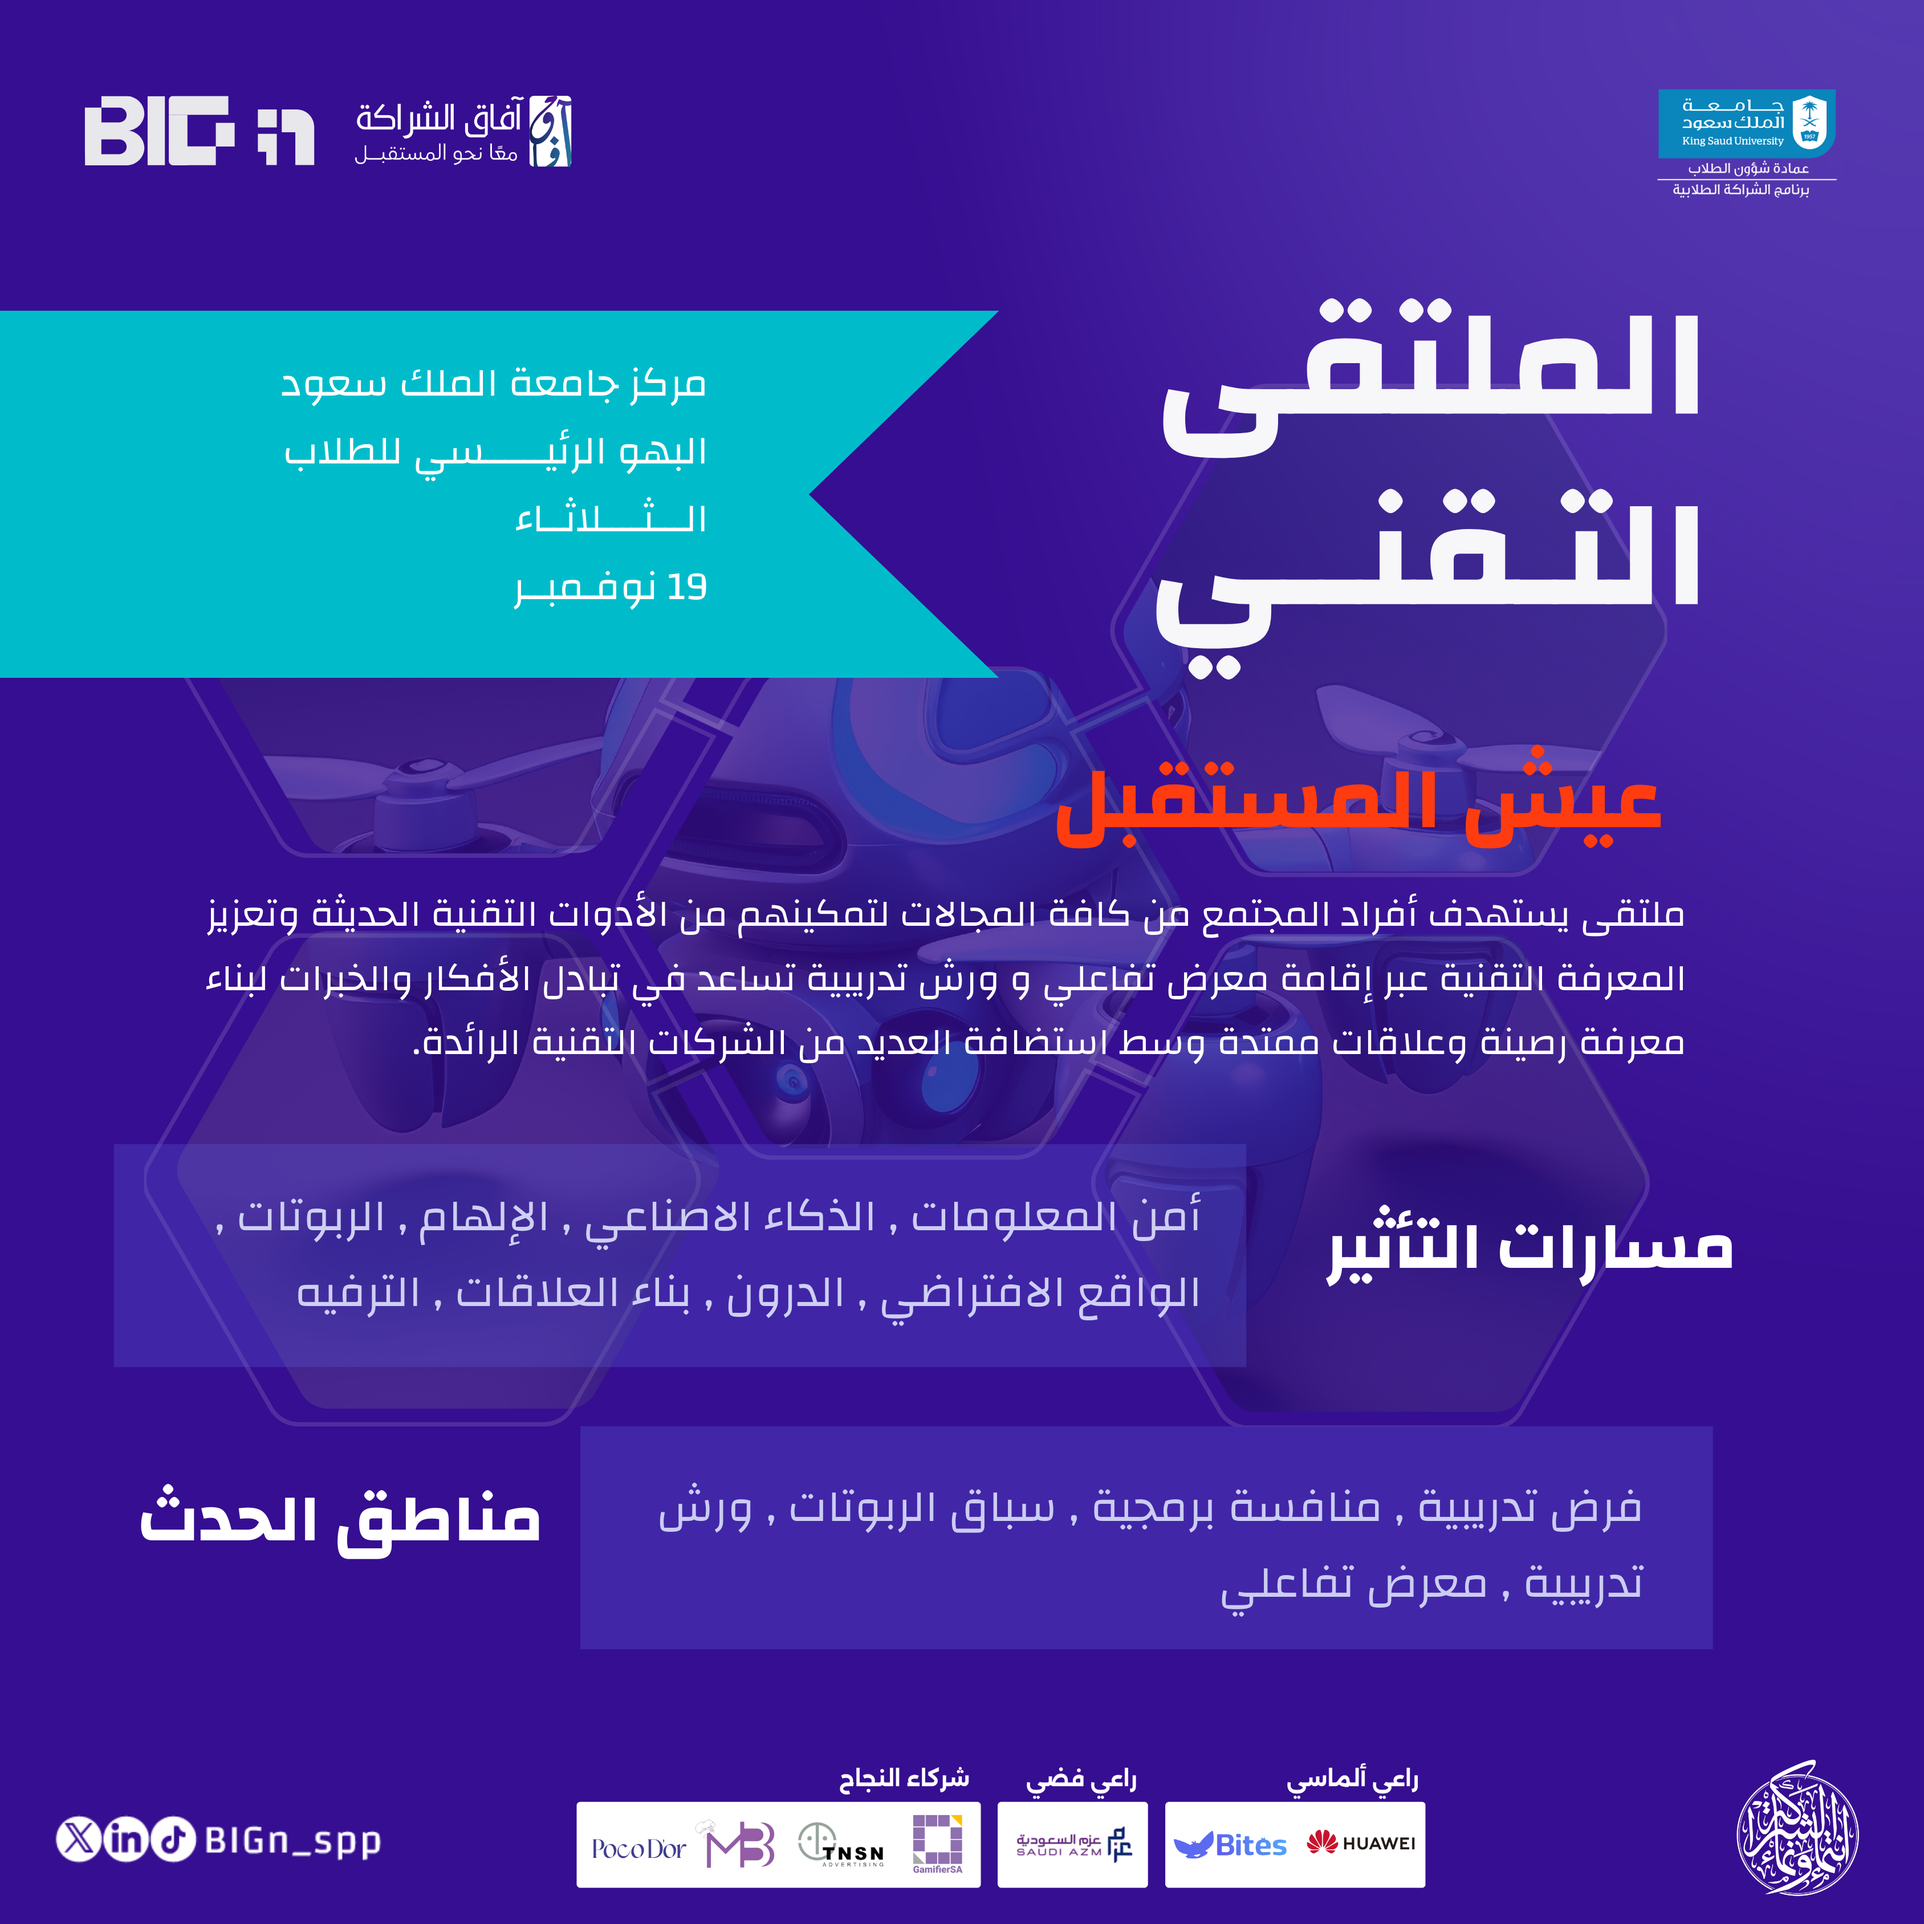
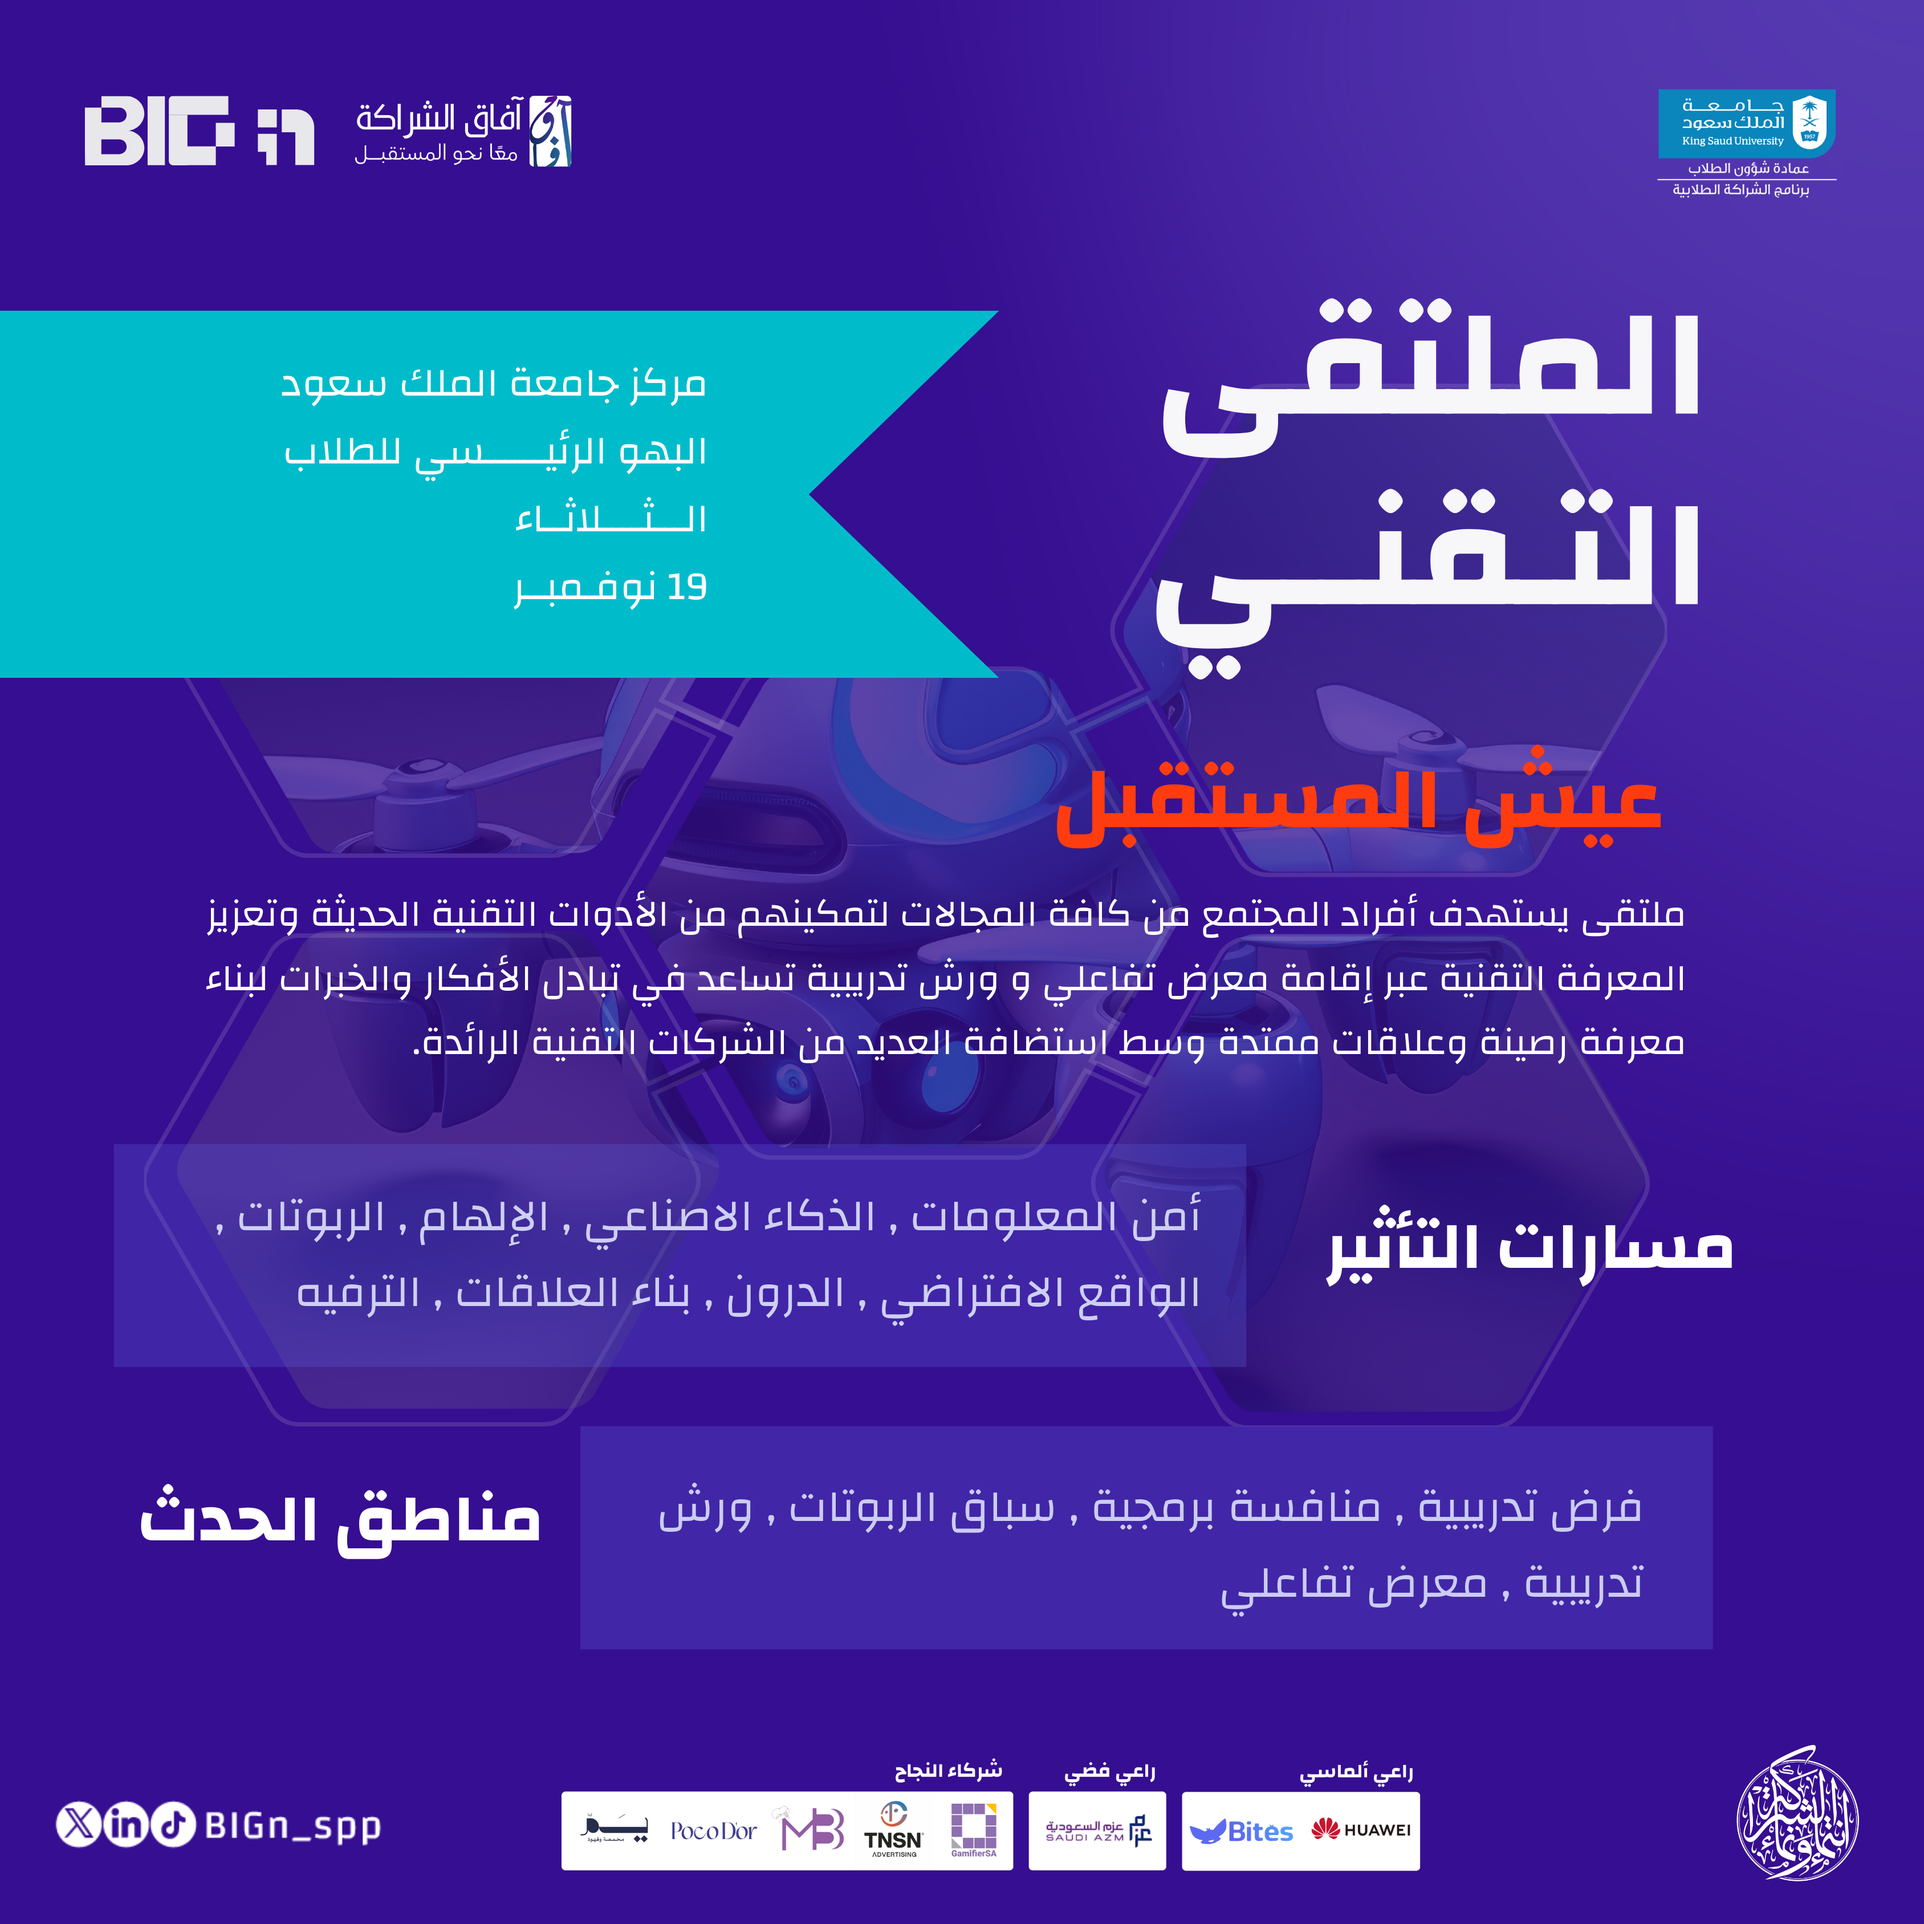
Adding new partner + modifying on the Multaqa tickets

Changed region(s): [[0.28, 0.9022, 0.7467, 0.9956], [0.9022, 0.9022, 0.9644, 0.9956], [0.0311, 0.9333, 0.2178, 0.9644]]

diff --git a/BIGn-frontend/BIGn/src/components/MultaqaCards.jsx b/BIGn-frontend/BIGn/src/components/MultaqaCards.jsx
@@ -6,13 +6,16 @@ const MultaqaCards = () => {
 
   return (
     <section className="p-4 px-10 py-44">
-      <div className="mx-auto max-w-6xl">
+      <div className="mx-auto ">
         <p className="mb-16 text-3xl sm:text-5xl text-center font-semibold">
           احجز تذكرتك واستمتع بالمعرض التقني!
         </p>
-        <div className="grid grid-cols-1 sm:grid-cols-2 gap-20">
+        <div className="flex flex-wrap justify-center gap-20">
           {displayItems.map((item) => (
-            <div key={item.id}>
+            <div
+              key={item.id}
+              className="flex flex-col items-center w-full max-w-xl"
+            >
               <p className="mb-3 mt-8 sm:text-3xl text-2xl text-center font-bold">
                 {item.title}
               </p>
@@ -70,14 +73,20 @@ export default MultaqaCards;
 const items = [
   {
     id: 1,
-    url: "/images/Multaqa-ticket.png",
-    title: "تذكرة حضور الملتقى",
-    buttonLink: "https://forms.gle/link1",
+    url: "/images/multaqa-ticket.png",
+    title: "تذكرة حضور الملتقى يوم الثلاثاء",
+    buttonLink: "https://forms.gle/TDt9GhxdVHwdEA7W7",
   },
   {
     id: 2,
     url: "/images/workshop1-ticket.png",
     title: "تذكرة حضور ورشة العمل",
-    buttonLink: "https://forms.gle/link2",
+    buttonLink: "https://forms.gle/i9Xap2tHKECx7f8h8",
+  },
+  {
+    id: 3,
+    url: "/images/bigO-ticket.png",
+    title: "سجل في مسابقة Big O's المصغرة",
+    buttonLink: "https://forms.gle/wh3AfedTqje7y4JHA",
   },
 ];

diff --git a/BIGn-frontend/BIGn/src/components/Partners.jsx b/BIGn-frontend/BIGn/src/components/Partners.jsx
@@ -172,4 +172,10 @@ const testimonials = [
     "شركة عزم، شركة سعودية رائدة في التكنولوجيا والتحول الرقمي، تدعم المؤسسات في تحقيق التحول بكفاءة عالية. تقدم خدمات مثل الاستشارات التقنية، تطوير البرمجيات، الأمن السيبراني، والحلول السحابية، مع التركيز على الذكاء الاصطناعي وتحليل البيانات لتحسين الأداء المؤسسي. تساهم عزم في تحقيق رؤية السعودية 2030 من خلال تعزيز الابتكار ودعم الاقتصاد الرقمي، مما يجعلها شريكًا استراتيجيًا للقطاعات الحكومية والخاصة.",
     name: "عزم السعودية",
   },
+  {
+    Icon: "/images/gamifier-logo.png",
+    description:
+    "جيمفاير هي شركة رائدة في مجال تحويل التجارب التقليدية إلى تجارب مبتكرة عن طريق التلعيب. تعمل الشركة على استخدام استراتيجيات مبتكرة وتقنيات حديثة لإنشاء حلول مثيرة تدمج اساليب التلعيب في مختلف جوانب الحياة. سواء كان الهدف تحفيز السلوك، أو تعزيز التعلم، تقدم لك جيمفاير عناصر من الألعاب لإنشاء تجارب ممتعة وذات تأثير تفاعلي سواء للأفراد أو للشركات.",
+    name: "قيميفاير",
+  },
 ];

diff --git a/BIGn-frontend/BIGn/src/components/ActivityContent.jsx b/BIGn-frontend/BIGn/src/components/ActivityContent.jsx
@@ -57,7 +57,7 @@ const ActivityContent = () => {
     },
     {
       id: 3,
-      tag: "مسابقات الBIG O's",
+      tag: "مسابقات BIG O's",
       text: (
         <>
           <strong>تعتمد مسابقة الBIG O's</strong> بشكل أساسي على مهارة حل المشكلات، حيث يواجه المتسابق فيها عدة مسائل متفاوتة الصعوبة ومتعددة المجالات (هندسية، رياضية...) قابلة للحل بأي لغة برمجية.  </>
